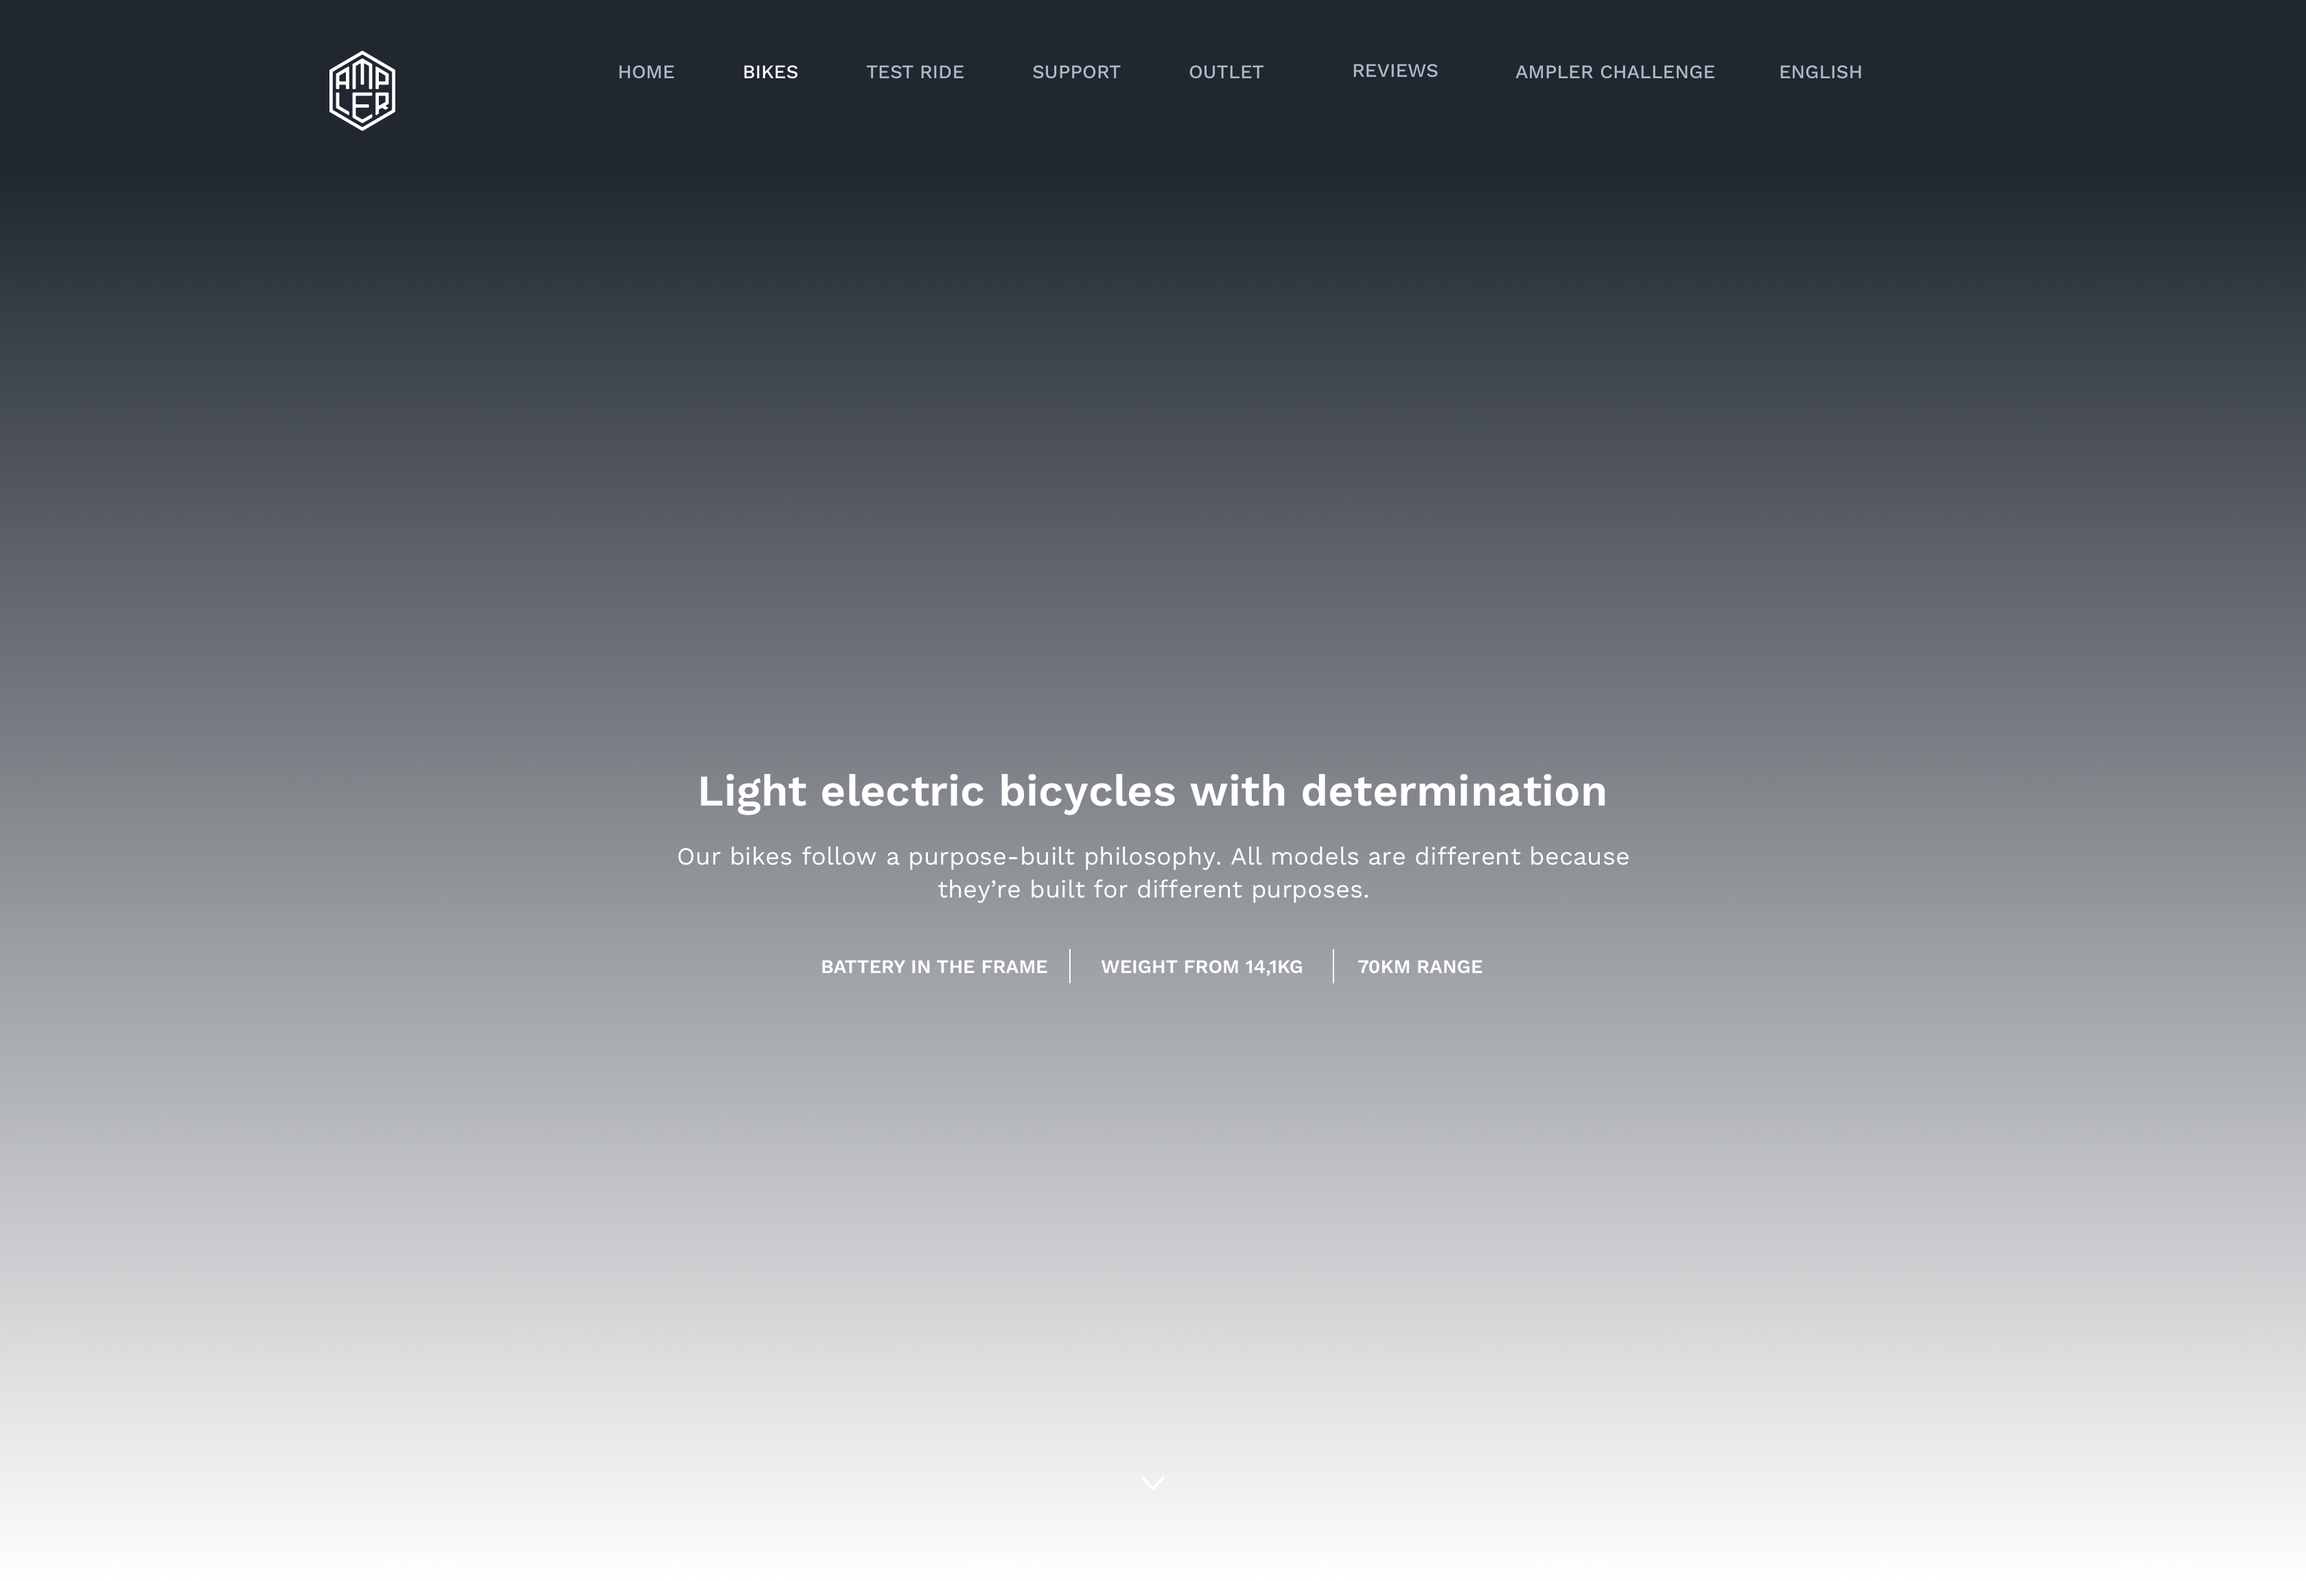
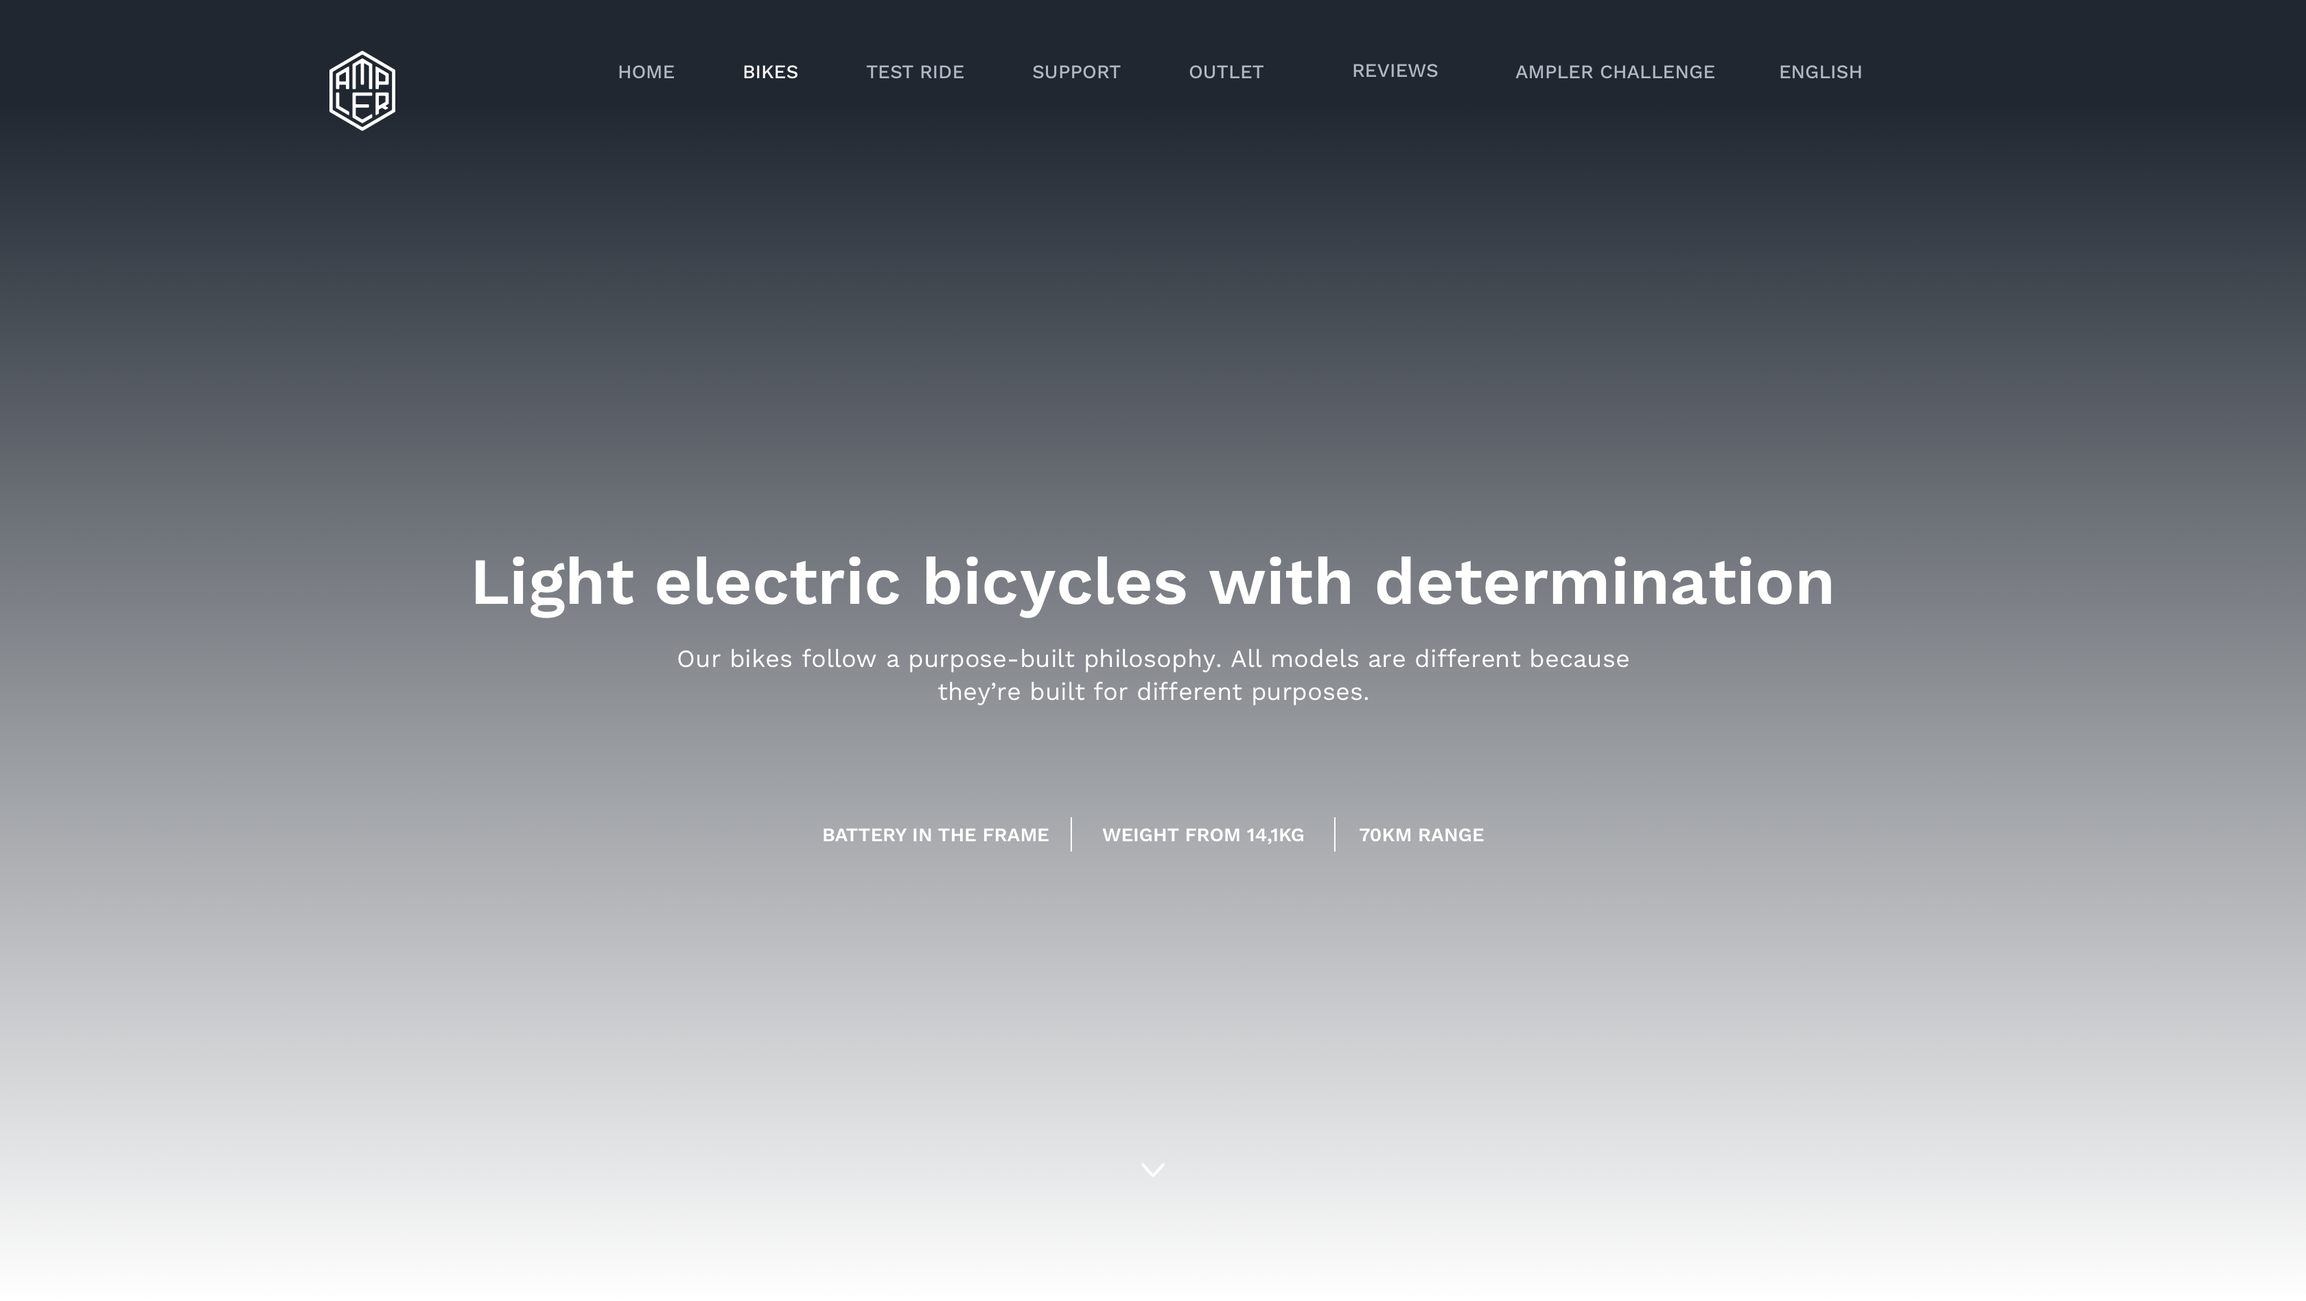
crop

diff --git a/styles.css b/styles.css
@@ -3,13 +3,7 @@
 /* Boiler plate CSS */
 
 
-#myVideo {
-  right: 0;
-  bottom: 0;
-  min-width: 1920px; 
-  min-height: 1152px;
-  background: cover;
-}
+
 
 
 .sk-ab {
@@ -36,7 +30,7 @@
 	width: 1680px;
 	height: 962px;
 	left: 0px;
-	top: 1152px;
+	top: 948px;
 	background-image: url("images/curt.png");
 }
 
@@ -53,7 +47,7 @@ only screen and (min-device-pixel-ratio: 2) {
 	width: 1680px;
 	height: 970px;
 	left: 0px;
-	top: 2116px;
+	top: 1912px;
 	background-image: url("images/stout.png");
 }
 
@@ -70,7 +64,7 @@ only screen and (min-device-pixel-ratio: 2) {
 	width: 1680px;
 	height: 970px;
 	left: 0px;
-	top: 3088px;
+	top: 2884px;
 	background-image: url("images/stellar.png");
 }
 
@@ -85,7 +79,7 @@ only screen and (min-device-pixel-ratio: 2) {
 }
 .sk-asset.sk-overlay {
 	width: 1680px;
-	height: 1152px;
+	height: 948px;
 	left: 0px;
 	top: 0px;
 	background-image: url("images/overlay.png");
@@ -97,10 +91,31 @@ only screen and (-webkit-min-device-pixel-ratio: 2),
 only screen and (min-device-pixel-ratio: 2) {
 	.sk-asset.sk-overlay {
 		background-image: url("images/overlay@2x.png");
-		background-size: 1680px 1152px;
+		background-size: 1680px 948px;
 	}
 }
 
+.video-container {
+  	width: 1920px;
+    overflow:hidden;
+    display:block;
+    height: 948px;
+}
+.video-container video {
+  /* Make video to at least 100% wide and tall */
+  min-width: 100%; 
+  min-height: 100%; 
+
+  /* Setting width & height to auto prevents the browser from stretching or squishing the video */
+  /*width: auto;
+  height: auto;*/
+
+  /* Center the video */
+ /* position: absolute;
+  top: 50%;
+  left: 50%;
+  transform: translate(-50%,-50%);*/
+}
 
 
 

diff --git a/index.html b/index.html
@@ -1,9 +1,9 @@
 <html>
 	<head>
-		<link href='/styles.css' rel='stylesheet'>
-		<link rel="stylesheet" href="/node_modules/aos/dist/aos.css" />
+		<link href='styles.css' rel='stylesheet'>
+		<link rel="stylesheet" href="./node_modules/aos/dist/aos.css" />
 		<script src="https://ajax.googleapis.com/ajax/libs/jquery/3.3.1/jquery.min.js"></script>
-		<script src="/node_modules/aos/dist/aos.js"></script>
+		<script src="./node_modules/aos/dist/aos.js"></script>
 
 		<script>
 			jQuery(document).ready(function()
@@ -24,9 +24,14 @@
 			<div data-aos="fade-up" class='sk-asset sk-stout '></div>
 			<div data-aos="fade-up" class='sk-asset sk-stellar '></div>
 
-			<video autoplay muted loop id="myVideo">
-  			<source src="video.mp4" type="video/mp4">
-			</video>
+  			
+			
+
+			<div class="video-container">
+			  <video autoplay muted loop>
+			    <source src="video.mp4" type="video/mp4">
+			  </video>
+			</div>
 
 			<div class='sk-asset sk-overlay'></div>
 		</div>
